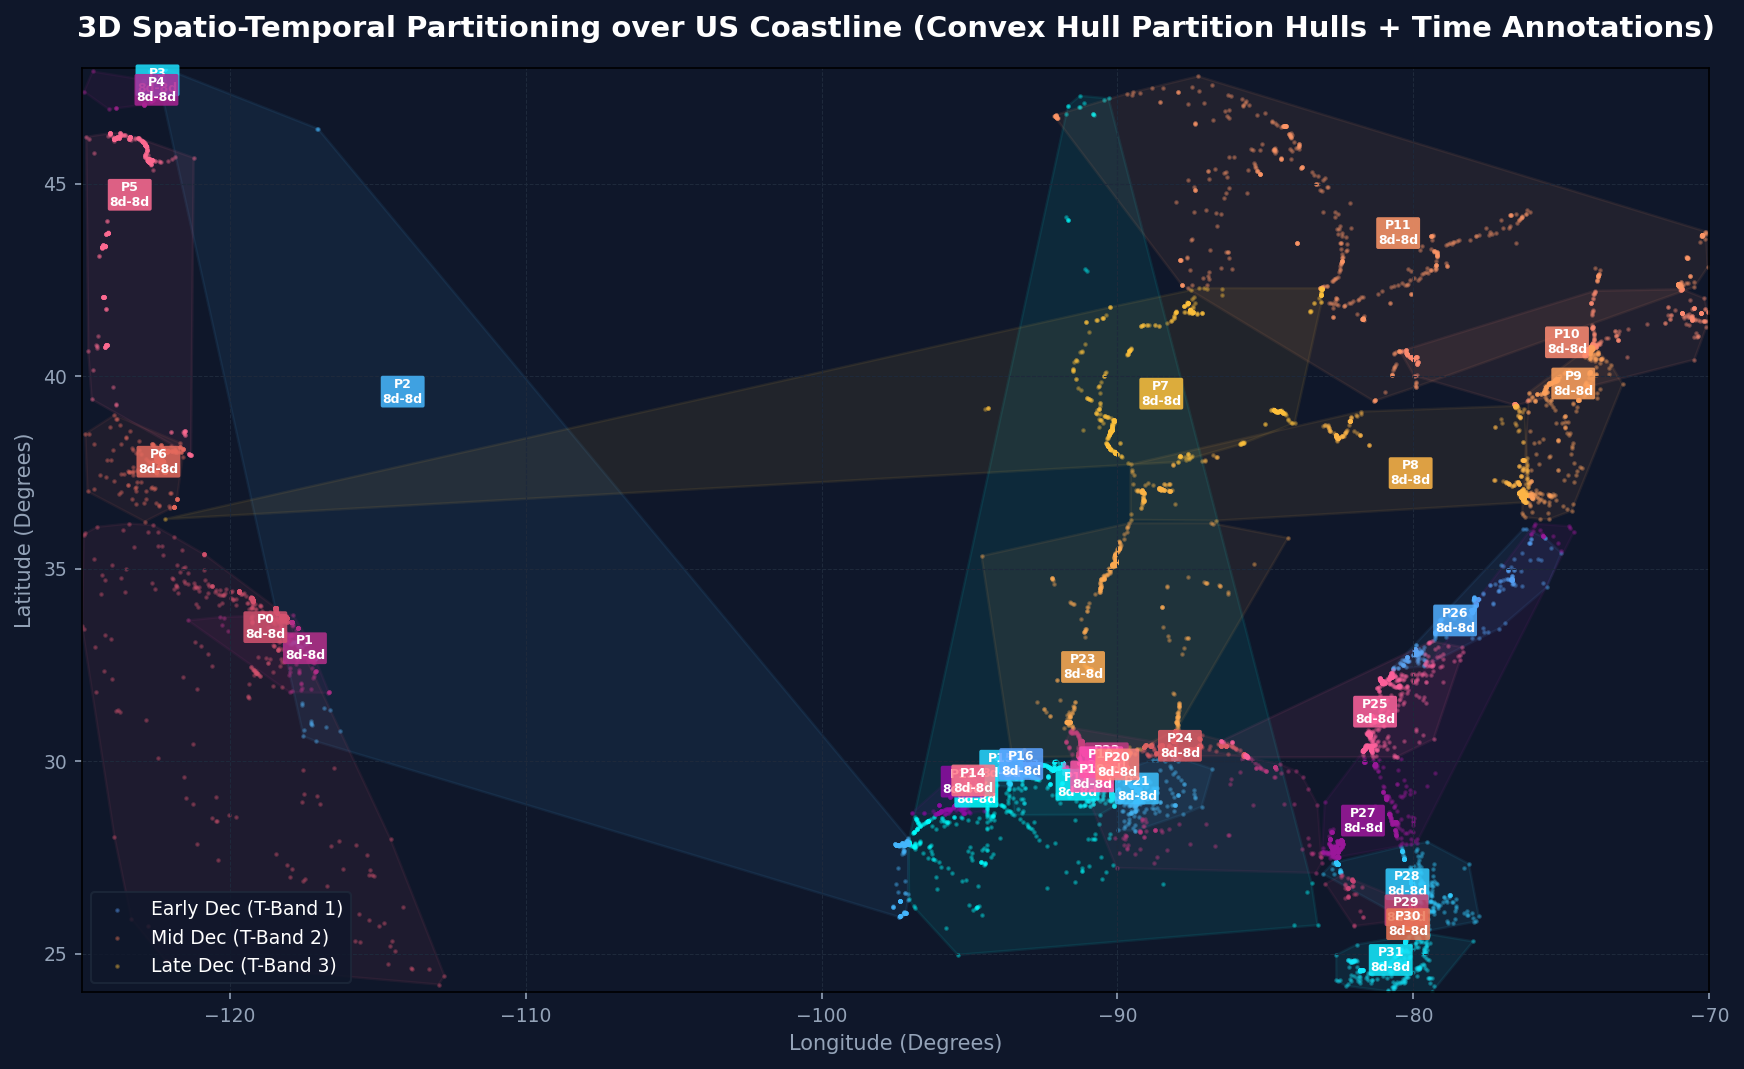
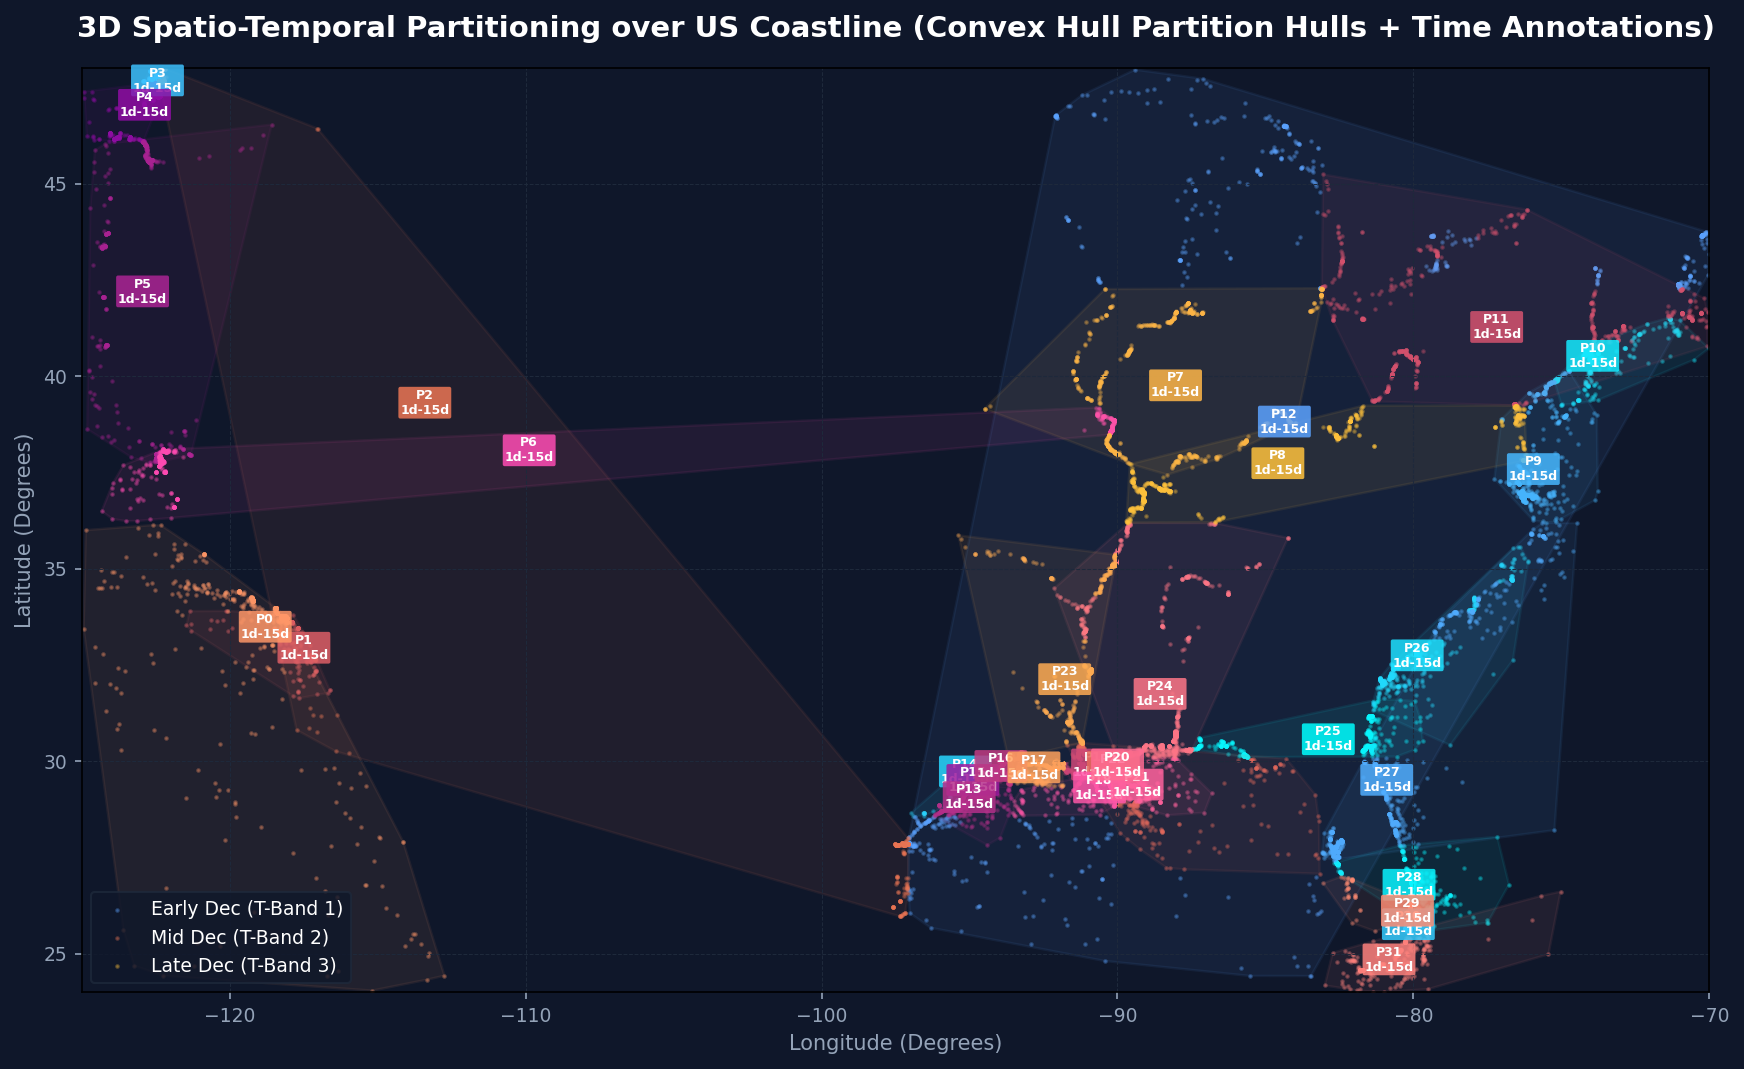
docs: resolve 8d-8d time tag repetition by sampling coordinates across first 15 parquet files of the month

diff --git a/docs/images/generate_us_hilbert_map.py b/docs/images/generate_us_hilbert_map.py
@@ -14,15 +14,28 @@ from ais_shader.moving_dask.trajectory import encode_3d_hilbert_numpy
 def main():
     dataset_path = '/projects/prjs2131/data/marine-cadastre/ais_2025_12'
     
-    # 1. Read first file of the dataset to get actual coordinates
-    print("Reading sample coordinates from US AIS dataset...")
-    pfile = list(Path(dataset_path).glob("*.parquet"))[0]
-    df = pq.read_table(pfile, columns=['longitude', 'latitude', 'base_date_time']).to_pandas()
-    
-    # Clean up empty values and sample 20,000 points
-    df = df.dropna(subset=['longitude', 'latitude', 'base_date_time'])
-    df = df[(df['longitude'] >= -125) & (df['longitude'] <= -70) & (df['latitude'] >= 24) & (df['latitude'] <= 48)]
-    df = df.sample(n=min(20000, len(df)), random_state=42)
+    # 1. Read a subset of rows from multiple parquet files to cover a wider temporal range (e.g. 15 days)
+    print("Reading sample coordinates across multiple US AIS dataset files...")
+    files = sorted(list(Path(dataset_path).glob("*.parquet")))
+    dfs = []
+    # Read from the first 15 files to get a representative multi-day sample
+    for pfile in files[:15]:
+        try:
+            tbl = pq.read_table(pfile, columns=['longitude', 'latitude', 'base_date_time'])
+            df_part = tbl.to_pandas().dropna(subset=['longitude', 'latitude', 'base_date_time'])
+            # Filter to main US continental area to make the map look nice
+            df_part = df_part[(df_part['longitude'] >= -125) & (df_part['longitude'] <= -70) & (df_part['latitude'] >= 24) & (df_part['latitude'] <= 48)]
+            if not df_part.empty:
+                df_part = df_part.sample(n=min(1500, len(df_part)), random_state=42)
+                dfs.append(df_part)
+        except Exception as e:
+            print(f"Skipping {pfile.name} due to: {e}")
+            
+    if not dfs:
+        raise ValueError("Could not read any coordinates from the dataset files.")
+        
+    df = pd.concat(dfs, ignore_index=True)
+    print(f"Loaded {len(df)} sample coordinates across {len(dfs)} files.")
     
     # 2. Get global bounds
     x_min, x_max = -125.0, -70.0